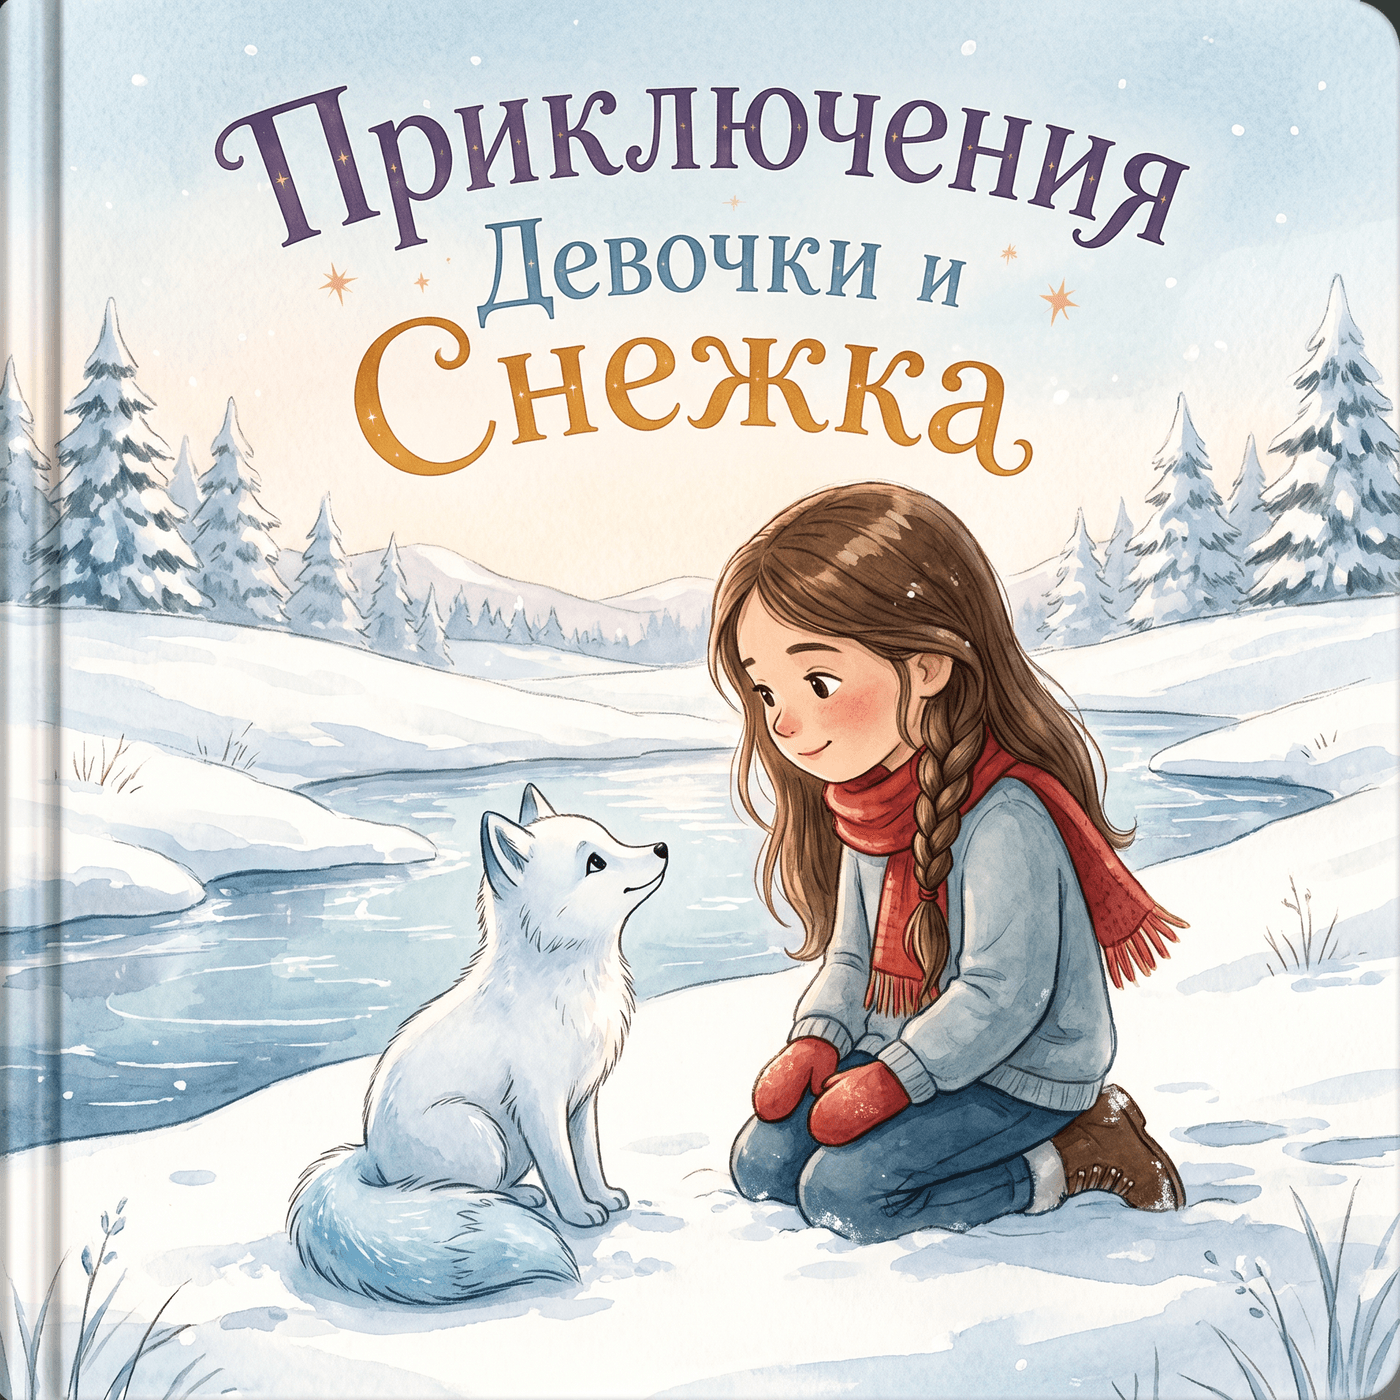
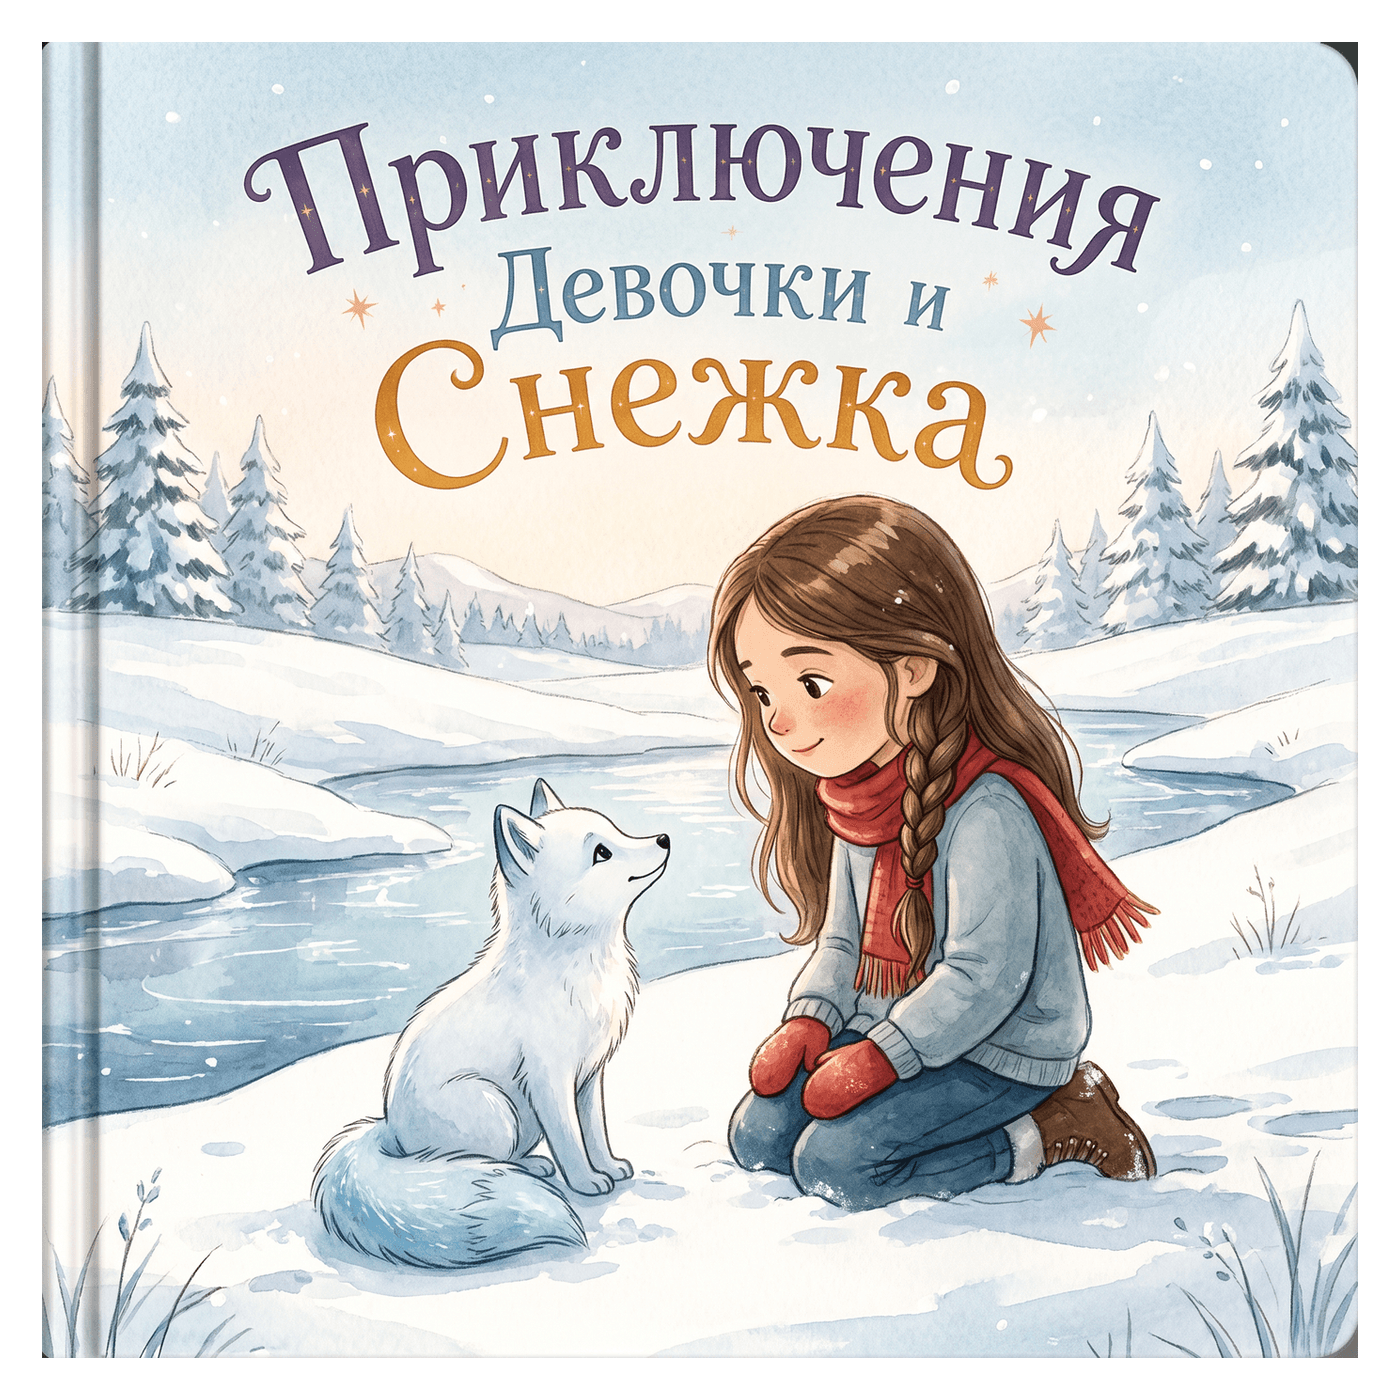
Eight more books, and one scale for every cover in the catalogue
Six in the 3D style of the Колёсик edition, plus two New Year stories, each
with its own age band so the shelf spans 2 to 9 rather than repeating 3–8.

Two things had to be corrected while generating them.

The first locomotive came back as Thomas the Tank Engine — blue, numbered 1,
with that face. Shipping it would have put someone else's character on a book
we sell. Regenerated with an explicit instruction that the companion be an
original design resembling no existing franchise, and that instruction now
carries into every cover prompt.

Pushing for lifelike children produced uncanny faces: adult bone structure and
photographic skin on a child's body. The prompt now asks for the same
stylisation as the reference — appealing and child-like first, individual
second — while still keeping face shape, hair and colouring distinguishable.
Two covers were regenerated on that basis.

Covers are also normalised to one frame. Some were flat artwork filling the
square, others 3D mockups with white margins of varying width, so the catalogue
grid showed books at visibly different sizes. Each is now trimmed to its
artwork and centred in a square with the same margin, which also cut the set
from 5–6 MB per file to under one.

diff --git a/prisma/seed.ts b/prisma/seed.ts
@@ -39,6 +39,8 @@ const galleryImages = [
 const CATALOGUE = [
   {
     slug: "priklyucheniya-devochki-i-kitenka",
+    ageMin: 3,
+    ageMax: 7,
     title: "Приключения Девочки и Китёнка",
     shortTitle: "Девочка и Китёнок",
     companion: "китёнком",
@@ -48,6 +50,8 @@ const CATALOGUE = [
   },
   {
     slug: "priklyucheniya-malchika-i-sovenka",
+    ageMin: 4,
+    ageMax: 8,
     title: "Приключения Мальчика и Совёнка",
     shortTitle: "Мальчик и Совёнок",
     companion: "совёнком",
@@ -57,6 +61,8 @@ const CATALOGUE = [
   },
   {
     slug: "priklyucheniya-devochki-i-oblachka",
+    ageMin: 2,
+    ageMax: 6,
     title: "Приключения Девочки и Облачка",
     shortTitle: "Девочка и Облачко",
     companion: "облачком",
@@ -66,6 +72,8 @@ const CATALOGUE = [
   },
   {
     slug: "priklyucheniya-malchika-i-ezhika",
+    ageMin: 3,
+    ageMax: 7,
     title: "Приключения Мальчика и Ёжика",
     shortTitle: "Мальчик и Ёжик",
     companion: "ёжиком",
@@ -75,6 +83,8 @@ const CATALOGUE = [
   },
   {
     slug: "priklyucheniya-devochki-i-snezhka",
+    ageMin: 3,
+    ageMax: 7,
     title: "Приключения Девочки и Снежка",
     shortTitle: "Девочка и Снежок",
     companion: "песцом Снежком",
@@ -84,12 +94,102 @@ const CATALOGUE = [
   },
   {
     slug: "priklyucheniya-malchika-i-korablika",
+    ageMin: 4,
+    ageMax: 8,
     title: "Приключения Мальчика и Кораблика",
     shortTitle: "Мальчик и Кораблик",
     companion: "корабликом",
     gender: "boy",
     cover: "/images/books/boy-korablik.png",
     idea: "Морская история о пути домой: деревянный кораблик и маяк, который всегда ждёт.",
+  },
+  {
+    slug: "priklyucheniya-malchika-i-parovozika",
+    ageMin: 2,
+    ageMax: 5,
+    title: "Приключения Мальчика и Паровозика",
+    shortTitle: "Мальчик и Паровозик",
+    companion: "паровозиком",
+    gender: "boy",
+    cover: "/images/books/boy-parovozik.png",
+    idea: "История о дороге и дружбе: зелёный паровозик везёт через долину к самому интересному.",
+  },
+  {
+    slug: "priklyucheniya-devochki-i-samoletika",
+    ageMin: 3,
+    ageMax: 7,
+    title: "Приключения Девочки и Самолётика",
+    shortTitle: "Девочка и Самолётик",
+    companion: "самолётиком",
+    gender: "girl",
+    cover: "/images/books/girl-samoletik.png",
+    idea: "История о высоком небе и смелости: жёлтый самолётик учит не бояться высоты.",
+  },
+  {
+    slug: "priklyucheniya-malchika-i-boltika",
+    ageMin: 5,
+    ageMax: 9,
+    title: "Приключения Мальчика и Болтика",
+    shortTitle: "Мальчик и Болтик",
+    companion: "роботом Болтиком",
+    gender: "boy",
+    cover: "/images/books/boy-boltik.png",
+    idea: "История о выдумке: медный робот Болтик и мастерская, где чинят даже невозможное.",
+  },
+  {
+    slug: "priklyucheniya-devochki-i-zontika",
+    ageMin: 3,
+    ageMax: 6,
+    title: "Приключения Девочки и Зонтика",
+    shortTitle: "Девочка и Зонтик",
+    companion: "зонтиком",
+    gender: "girl",
+    cover: "/images/books/girl-zontik.png",
+    idea: "История о дожде и радости: красный зонтик превращает серый день в праздник.",
+  },
+  {
+    slug: "priklyucheniya-malchika-i-vertoletika",
+    ageMin: 4,
+    ageMax: 8,
+    title: "Приключения Мальчика и Вертолётика",
+    shortTitle: "Мальчик и Вертолётик",
+    companion: "вертолётиком",
+    gender: "boy",
+    cover: "/images/books/boy-vertoletik.png",
+    idea: "История о горах и помощи: зелёный вертолётик всегда прилетает, когда нужен.",
+  },
+  {
+    slug: "priklyucheniya-devochki-i-fonarika",
+    ageMin: 3,
+    ageMax: 7,
+    title: "Приключения Девочки и Фонарика",
+    shortTitle: "Девочка и Фонарик",
+    companion: "фонариком",
+    gender: "girl",
+    cover: "/images/books/girl-fonarik.png",
+    idea: "История о ночном лесе: тёплый фонарик светит там, где темно и немного страшно.",
+  },
+  {
+    slug: "priklyucheniya-devochki-i-snegovika",
+    ageMin: 2,
+    ageMax: 6,
+    title: "Приключения Девочки и Снеговика",
+    shortTitle: "Девочка и Снеговик",
+    companion: "снеговиком",
+    gender: "girl",
+    cover: "/images/books/girl-snegovik.png",
+    idea: "Новогодняя история о чуде: снеговик в красном шарфе ждёт у ёлки на площади.",
+  },
+  {
+    slug: "priklyucheniya-malchika-i-olenenka",
+    ageMin: 5,
+    ageMax: 9,
+    title: "Приключения Мальчика и Оленёнка",
+    shortTitle: "Мальчик и Оленёнок",
+    companion: "оленёнком",
+    gender: "boy",
+    cover: "/images/books/boy-olenenok.png",
+    idea: "Новогодняя история о дороге сквозь зиму: оленёнок с бубенцом ведёт под северным сиянием.",
   },
 ] as const;
 
@@ -255,9 +355,9 @@ async function main() {
       published: true,
       featured: false,
       stockStatus: "in_stock",
-      ageRange: "3–8 лет",
-      ageMin: 3,
-      ageMax: 8,
+      ageRange: `${book.ageMin}–${book.ageMax} лет`,
+      ageMin: book.ageMin,
+      ageMax: book.ageMax,
       pageCount: PAGE_COUNT,
       format: "hardcover-square",
       coverType: "hardcover",
